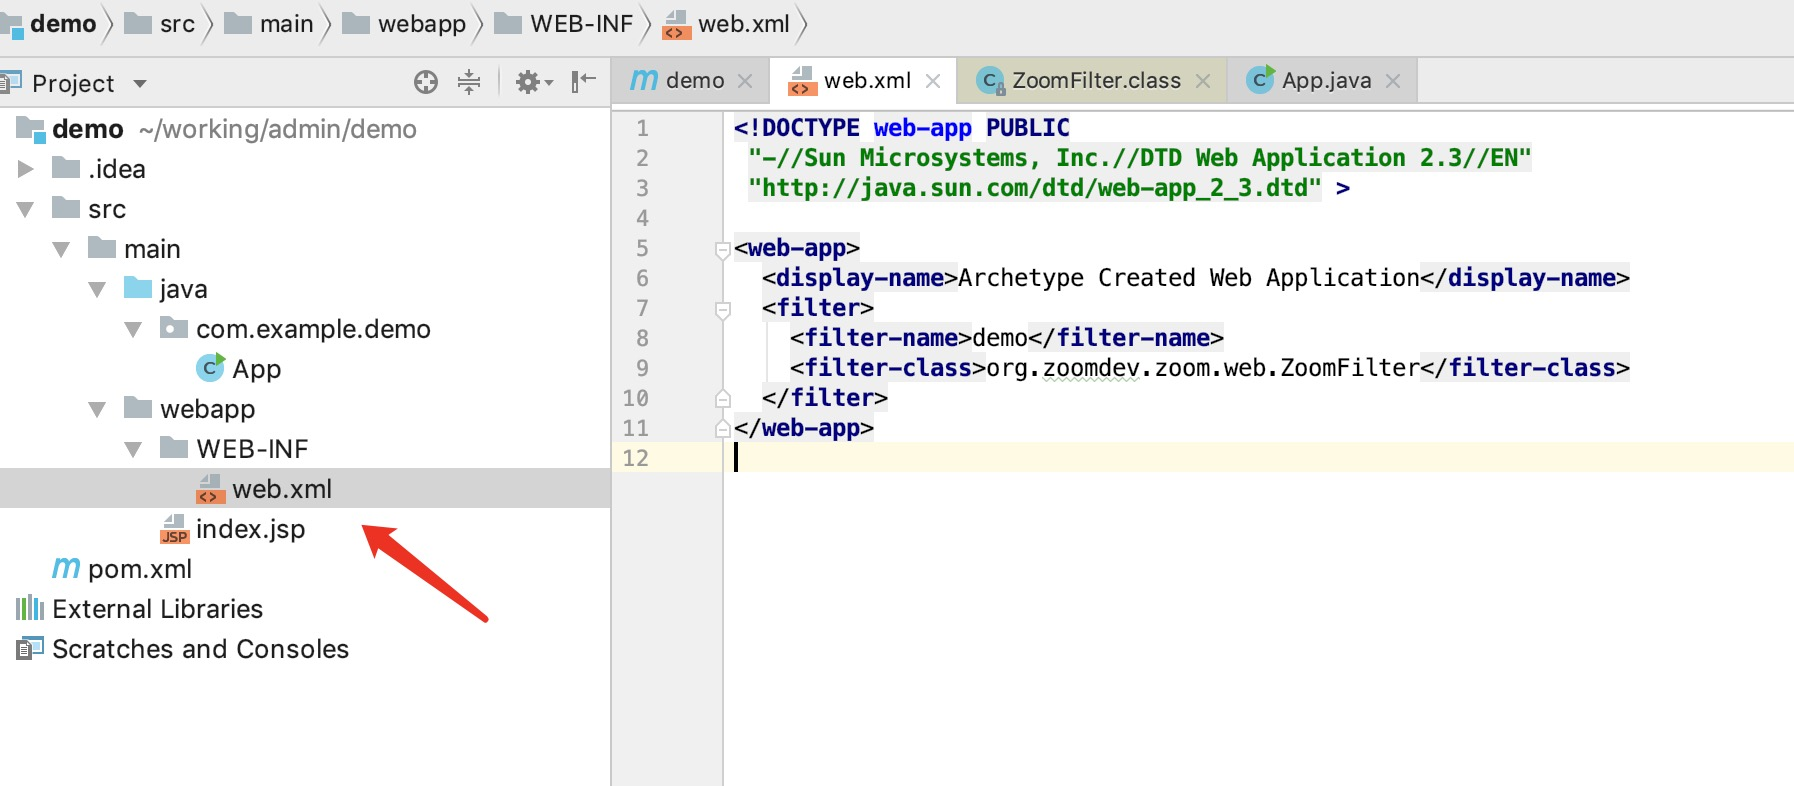
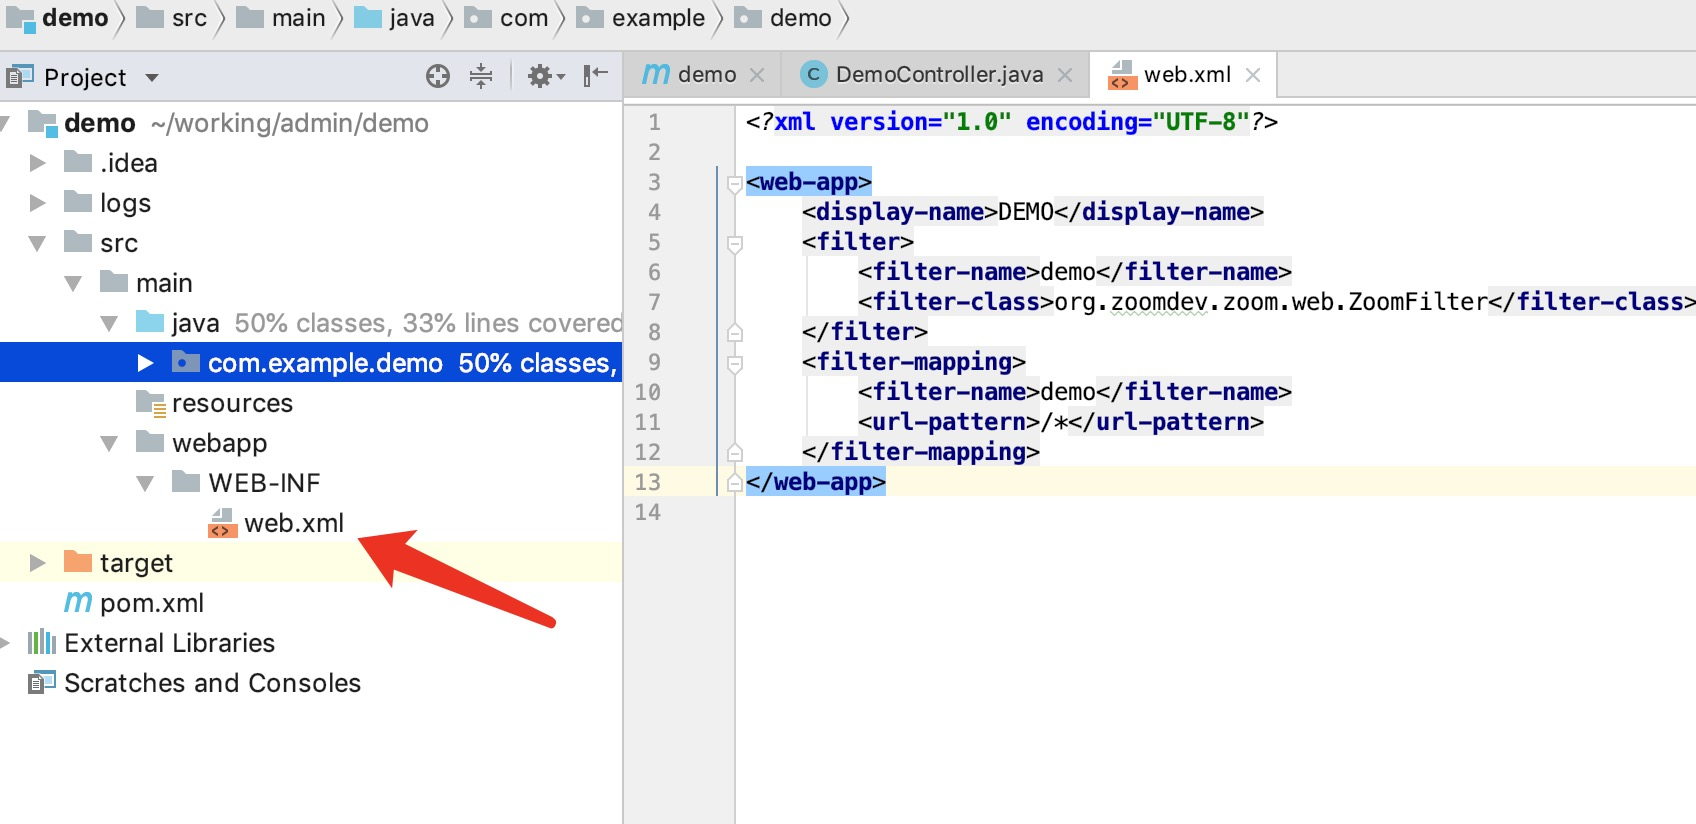
udpate demo

Changed region(s): [[0.0, 0.0, 1.0, 0.855]]

diff --git a/README.md b/README.md
@@ -2,6 +2,12 @@
 
 # 开始
 
+## 环境要求
+
++ maven 3.x以上
++ jdk 1.6 或以上
++ 打开命令行能直接运行mvn
+
 ## 使用idea创建web项目
 
 1、新建一个idea项目
@@ -73,12 +79,17 @@ public class App {
 <?xml version="1.0" encoding="UTF-8"?>
 
 <web-app>
-  <display-name>DEMO</display-name>
-  <filter>
-    <filter-name>demo</filter-name>
-    <filter-class>org.zoomdev.zoom.web.ZoomFilter</filter-class>
-  </filter>
+    <display-name>DEMO</display-name>
+    <filter>
+        <filter-name>demo</filter-name>
+        <filter-class>org.zoomdev.zoom.web.ZoomFilter</filter-class>
+    </filter>
+    <filter-mapping>
+        <filter-name>demo</filter-name>
+        <url-pattern>/*</url-pattern>
+    </filter-mapping>
 </web-app>
+
 
 
 ```
@@ -107,4 +118,34 @@ public class App {
 
 ![](images/idea/13.png)
 
+13、修改项目配置为自动刷新
 
+![](images/idea/16.png)
+
+如图勾选
+
+![](images/idea/17.png)
+
+看下Registry的Keymap，并使用这个快捷键调出Registry对话框，没有快捷键的话就新建个快捷键。
+
+![](images/idea/18.png)
+
+如图勾选
+
+
+__重启下idea__，就可以自动编译了
+
+![](images/preview.gif)
+
+
+
+## 使用eclipse创建项目
+
+
+
+# 打包war
+
+进入项目根目录
+```
+mvn clean install
+```
